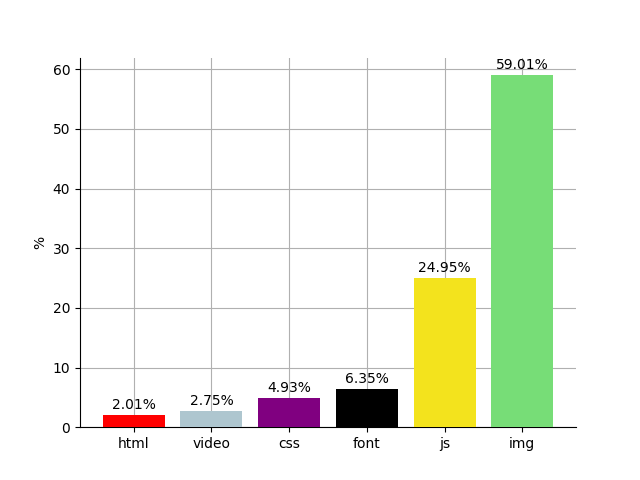
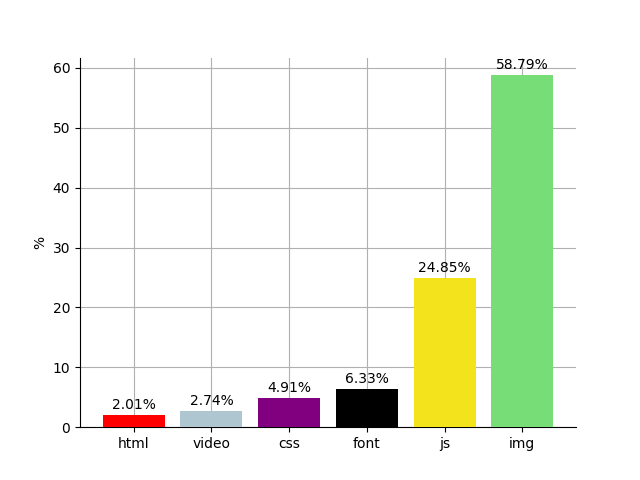
Finished metronome article.

diff --git a/templates/index.html b/templates/index.html
@@ -3,7 +3,7 @@
 {% block content %}
 <div data-nosnippet>
 <h2>About</h2>
-<p>This is where I (Kevin Galligan) keep my software and writing stuff. The writing is mostly computer-related. In recent times, I got a science degree and spent 3 years developing Java web services for some company. I've since returned to college in a misguided attempt to learn more maths.</p>
+<p>I'm Kevin Galligan, and this is where I keep my software and writing stuff.</p>
 
 <h4>Infrequently Asked Questions</h4>
 <p><b>Q:</b> How can I contact you?</p>

diff --git a/experiments/metronome/bar.py b/experiments/metronome/bar.py
@@ -3,13 +3,14 @@ import matplotlib.pyplot as plt
 BYTES_INTERQUARTILE = [117444183625, 1492513128682, 283180779936, 2814808632228, 363177891001, 70743962271]
 BYTES_10_TO_90 = [188774196140, 2337263808937, 462249675219, 5528893867126, 595097490698, 257342218994]
 
+TOTAL = 9405167424348
+
 def main():
     # plot_bar(BYTES_INTERQUARTILE)
     plot_bar(BYTES_10_TO_90)
 
 def plot_bar(bs):
-    totalsum = sum(bs)
-    props = [round(100*s/totalsum, 2) for s in bs]
+    props = [round(100*s/TOTAL, 2) for s in bs]
     colours = ["red", "#f3e31d", "purple", "#77dd77", "black", "#aec6cf"]
     names = ["html", "js", "css", "img", "font", "video"]
     attrs = list(zip(props, names, colours))

diff --git a/pages/blog/metronome.md b/pages/blog/metronome.md
@@ -1,13 +1,12 @@
 title: "Obese websites and planet-sized metronomes"
-date: 2020-06-05
-description: Publishing an Earth-sized metronome app on the fat web.
-draft: yes
+date: 2020-06-07
+description: A reflection on website obesity and my attempt to make a 981-byte metronome app.
 
-As you may have heard, we're in the midst of a crisis.
+As you may have heard, we're in the middle of a crisis.
 
 No, not that one. I'm talking about the [website obesity crisis](https://idlewords.com/talks/website_obesity.htm).
 
-The homepage of the [first ever website](http://info.cern.ch/hypertext/WWW/TheProject.html), published by Tim Berners-Lee in 1991, was 2.2KB in size. It was a sparse list of links, accessed through black-screened terminals with green text. Pure, aerodynamic HTML.
+The homepage of the [first ever website](http://info.cern.ch/hypertext/WWW/TheProject.html), published by Tim Berners-Lee in 1991, was 2.2KB in size. It was a sparse list of links. Pure, aerodynamic HTML. The internet users of the time would have viewed it through black-screened terminals with green text.
 
 <figure>
 <img src="{{ url_for('static', filename='img/metronome/firstpage.png') }}"
@@ -19,19 +18,24 @@ The homepage of the [first ever website](http://info.cern.ch/hypertext/WWW/ThePr
 
 Our expectations of the World Wide Web have grown since then, and so have websites. The median webpage size in 2020 is 2MB, and it has been increasing at a rate of about 165KB per year for the past 10 years<sup>[1](https://httparchive.org/reports/state-of-the-web)</sup>. It is now 800 times larger than Tim's original homepage.
 
-Images and scripts are responsible for driving this newfound corpulence. Images account for almost 60% of the collective mass of the web, once you exclude the smallest 10% and largest 10% of webpages. A further 25% is used for JavaScript, followed by 6% for custom fonts, 5% for CSS, and 3% for video, until finally, a mere 2% of the pie is left for HTML.
+In what follows, we'll explore the cause of this newfound corpulence, its repercussions, and my own struggles with website weight as I attempted to create a metronome web app in less than 1KB.
+
+### Weight of the web
+Why is the web so much heavier, these days? That's one of the questions that the [HTTP Archive](https://httparchive.org) attempts to answer. It's a community-run initiative to capture the state of the web over time. They catalogue millions of websites every month and publish the results as a database.
+
+After removing the smallest 10% and largest 10% of webpages from the HTTP Archive database for April 2020, we see that images account for almost 60% of the collective mass of the web. A further 25% is taken up by JavaScript, 6% by custom fonts, 5% by CSS, and 3% by video, until finally, a mere 2% of the pie is left for HTML.
 
 <figure>
 <img src="{{ url_for('static', filename='img/metronome/breakdown.png') }}"
      alt="Bar chart showing the web's mass by resource type. HTML 2.01%, videos 2.75%, CSS 4.93%, fonts 6.35%, JavaScript 24.95%, images 59.01%."
      class="centered">
 
-<figcaption>Percentage of the web's total mass taken up by common data types, after the smallest 10% and largest 10% of webpages have been excluded. These figures were extracted from the <a href="https://httparchive.org">HTTP Archive</a>. Methodology described in Appendix A.</figcaption>
+<figcaption>Percentage of the web's total mass taken up by common data types. More details on this chart are available in Appendix A.</figcaption>
 </figure>
 
-Most websites don't have this exact breakdown of weight, but it's roughly what you can expect to download when you visit a large number of websites on the modern web.
+Most websites don't have this exact breakdown of weight, but it's roughly what you can expect to download when you spend a lot of time on the web, depending on which sites you visit.
 
-The "average" 2MB webpage, then -- which, in fact, [doesn't exist](https://www.igvita.com/2016/01/12/the-average-page-is-a-myth/), but is nonetheless a useful concept -- comes with 1.2MB of image data. That's rather a lot of eyeball stimulation. The below portrait of William Howard Taft, the most voluminous ever president of the United States and basis of the [Taft Test](https://tafttest.com/), uses up just 1.5% of that 1.2MB budget. We can only assume either that modern websites include a *lot* of Taft-sized images, or that their images are absurdly big.
+The "average" 2MB webpage, then -- which, in fact, [doesn't exist](https://www.igvita.com/2016/01/12/the-average-page-is-a-myth/), but is useful to think about -- comes with 1.2MB of image data (60% of 2MB). That's rather a lot of eyeball stimulation. The below portrait of William Howard Taft, the most voluminous ever president of the United States and the basis of the [Taft Test](https://tafttest.com/), uses up just 2% of a 1.2MB budget. We can only assume either that modern websites include a *lot* of Taft-sized images, or that their images are absurdly heavy.
 
 <figure>
 <img src="{{ url_for('static', filename='img/metronome/taft.jpg') }}"
@@ -41,27 +45,27 @@ The "average" 2MB webpage, then -- which, in fact, [doesn't exist](https://www.i
 <figcaption>President Taft, 1857-1930.</figcaption>
 </figure>
 
-And let's be honest with ourselves: most images on the internet have less utility and aesthetic value than Taft.
+And let's be honest with ourselves: most images on the internet have less utility and aesthetic value than Taft. If you've ever read a Medium article about a technical subject, headed by a high-resolution photograph of a windmill, then you know what I'm talking about.
 
-More offensive still, the "average" webpage is now bundled with 500KB of JavaScript. If you wrote 200 lines of code per day at 50 characters per line, it would take 50 days to write that much JavaScript. This is astonishing, when you consider that the average website is less interactive than a tree stump. You could fit 15 copies of the original Super Mario Bros into 500KB. Yet, rather than a delightful platforming adventure worth hours of fun, we are instead subjected to ads, tracking scripts and [mountains of garbage](http://lea.verou.me/2020/05/todays-javascript-from-an-outsiders-perspective/) pulled in by the JavaScript ecosystem.
+More offensive still, the "average" webpage is now bundled with 500KB of JavaScript. If you wrote 200 lines of code per day at 80 characters per line, it would take a whole month to write a 500KB program. This is surprising to me, considering that the average website is less interactive than a tree stump. You could fit 15 copies of the original Super Mario Bros into 500KB. Yet, rather than a delightful platforming adventure worth hours of fun, we are instead subjected to ads, tracking scripts, and [mountains of garbage](http://lea.verou.me/2020/05/todays-javascript-from-an-outsiders-perspective/) pulled in from the JavaScript ecosystem.
 
-To summarise our flying tour of the modern web: it's fat. Unhealthily so.
+To summarise our survey of the modern web: it's fat. Unhealthily so.
 
 ### The cost of the fat web
-While some of us live in parts of the world with affordable, fast internet, others are not so fortunate. As of May 2020, a 2MB webpage is worth approximately 6 minutes of labour in Mauritania ([whatdoesmysitecost.com](https://whatdoesmysitecost.com/#gniCost) estimates that the download would cost 1.29% of Mauritania's daily gross national income per capita, and 1.29% of an 8-hour workday is ~6 minutes). Imagine having to work a full hour in order to earn the privilege of reading 10 webpages!
+While some of us live in parts of the world with affordable, fast internet, others are not so fortunate. As of May 2020, the download of a 2MB webpage in Mauritania is worth approximately 6 minutes of labour. More specifically, [whatdoesmysitecost.com](https://whatdoesmysitecost.com/#gniCost) estimates that the download would cost 1.29% of Mauritania's daily gross national income per capita, and 1.29% of an 8-hour workday is ~6 minutes.
 
-A [2014 Time article](https://time.com/3589909/internet-next-billion-mobile/) predicted that the next billion internet adoptees would be smartphone users. If we want the web to remain accessible for these newcomers, who presumably have crap hardware and crap networks, then the slimmer it is, the better.
+Obviously, there are more pressing issues in Mauritania than fat websites, but it pays to consider that by playing fast and loose with the weight of your website, you may be making it inaccessible to large numbers of people. [This post](https://blog.chriszacharias.com/page-weight-matters) by an ex-YouTube engineer explains how a lightweight version of YouTube's video player made the site accessible to users in remote regions of Siberia.
 
-The overweight web also has an environmental impact. The internet as a whole consumes more electricity than the entire United Kingdom<sup>[2](https://www.websitecarbon.com/)</sup>. So as well as having shorter showers, consider shedding some of the dead weight from your website.
+The overweight web also has an environmental impact. The internet as a whole consumes more electricity than the entire United Kingdom<sup>[2](https://www.websitecarbon.com/)</sup>. So, if you're the sort of person who gets excited about recycling, then you should also consider shedding some of that dead weight from your website.
 
 ### Making an Earth-sized web app
-Recently, with this glum state of affairs at the back of my mind, I found myself in need of a metronome web app. A metronome, if you didn't know, is a tool that ticks at regular intervals. It's a music thing.
+Recently, with this glum state of affairs at the back of my mind, I found myself in need of a metronome web app. A metronome, if you didn't know, is a tool that ticks at regular intervals.
 
-I didn't like any of the apps I found on the web. They were extremely overweight (as large as 11.35MB), mobile-unfriendly (I can't express the horror of trying to set precise numeric values with a slider), and full of trackers (hi Google!).
+I didn't like any of the apps I found. They were grotesquely overweight (as large as 11.35MB), mobile-unfriendly (I can't express the horror of trying to set precise numeric values with a slider), and full of trackers (hi Google!).
 
-And so, I set myself a challenge: to make my own, mobile-friendly, slider-free metronome app, with the constraint that it be less than 1KB in size. That's half the size of Tim Berners-Lee's original webpage. A tight margin, for sure, but since people make [1KB JavaScript games](https://js1k.com/) for fun, I was confident that it would be possible.
+As a result, I set myself a challenge: to make my own, mobile-friendly, slider-free metronome app, with the constraint that it be less than 1KB in size. That's half the size of Tim Berners-Lee's original webpage. A tight margin, for sure, but this would be small fry compared to the [1KB JavaScript games](https://js1k.com/) that some people make for fun.
 
-The finished app can be found <a href="{{ url_for("specific_app", name="metronome") }}">here</a>. The first version was 2616 bytes, but by applying various dirty tricks (detailed in Appendix B, along with some technical details of the app), I managed to shrink it down to 981 bytes, or ~3.5 tweets.
+The finished product is <a href="{{ url_for("specific_app", name="metronome") }}">here</a>. The first version was over 2.5KB, but by applying various dirty tricks (detailed in Appendix B, along with technical details of the app), I managed to shrink it down to 981 bytes, or ~3.5 tweets.
 
     :::html
     <!DOCTYPE html><title>Metronome</title><meta name=viewport content=width=device-width>
@@ -77,16 +81,16 @@ The finished app can be found <a href="{{ url_for("specific_app", name="metronom
     n=>(e=D.createElement("button"),e.addEventListener("click",()=>a(n)),H(e,(n<0?"":"+")+n),
     D.body.appendChild(e))));</script><p id=b>100</p><button id=c onclick=c();>play</button>
 
-The purpose of this exercise? Mostly as a point of comparison for other metronome apps on the market, which I believe are symptomatic of the horrid state of the web, and which we will examine in the next section.
+The purpose of this exercise? Mostly as a point of comparison for other online metronome apps, which I believe are symptomatic of the horrid state of the web, and which we will examine in the next section.
 
 ### Comparing size
-Here's a size comparison of my metronome versus the top 7 metronomes (labelled A-G) that come up when you search "metronome online" with Generic Search Engine. The y-axis is on a logarithmic scale, which means that it counts from 1 to 10 to 100, instead of 1 to 2 to 3. Otherwise, some of the bars would be microscopically tiny. Metronome A is 11.35MB (around 10<sup>8</sup> bytes), metronome G is 217.56KB (10<sup>6</sup>), and my metronome is 981 bytes (10<sup>3</sup>).
+Here's a size comparison of my metronome versus the top 7 metronomes, labelled A-G, that come up when you search "metronome online" with Generic Search Engine. The y-axis is on a logarithmic scale, which means that it counts from 1 to 10 to 100, instead of 1 to 2 to 3. Otherwise, some of the bars would be microscopically tiny. Metronome A is 11.35MB (around 10<sup>8</sup> bytes), metronome G is 217.56KB (10<sup>6</sup>), and my metronome is 981 bytes (10<sup>3</sup>).
 
 <img src="{{ url_for('static', filename='img/metronome/size.png') }}"
      alt="Bar chart comparing sizes of various metronome apps to mine."
      class="centered">
 
-Yes, folks, you heard it here first: mine is smaller. To get a sense for how much smaller, consider this depiction of Earth and Jupiter ([source](https://theplanets.org/jupiter/)):
+Yes, folks, you heard it here first: mine is smaller. To get a sense of how much smaller, consider this depiction of Earth and Jupiter ([source](https://theplanets.org/jupiter/)).
 
 <img src="{{ url_for('static', filename='img/metronome/planets.jpg') }}"
      alt="todo"
@@ -96,15 +100,15 @@ Quoting universetoday.com<sup>[3](https://www.universetoday.com/37124/volume-of-
 
 > The largest planet in our Solar System, Jupiter’s size is astounding. Jupiter has a volume of 1.43 x 1015 cubic kilometers. To show what this number means, you could fit 1321 Earths inside of Jupiter. It is hard to imagine how large that actually is.
 
-If my metronome app were Earth, then Metronome A would have the volume of **eight Jupiters**. It is hard to imagine how large that actually is. Or what it could possibly be doing with all of that volume, since none of the larger metronomes offer any functionality beyond basic ticking. Although, admittedly, they're much prettier.
+If my metronome app were Earth, then Metronome A would have the volume of **eight Jupiters**. As the article says, it is hard to imagine how large that actually is.
+
+Keep in mind that none of the larger metronomes offer any features besides ticking. Admittedly, they're much prettier, but my point is that the weight of these web apps is massively disproportionate to the functionality that they offer. And the same can be said for much of the modern web.
 
 ### Final thoughts
-I'm not suggesting that we all become masochist monks, purging the tiniest strips of fat from our websites with puritan fury. While fun, compressing a website takes a lot of effort, and the end result tends to look like shit. Let's just try to make our websites Earth-sized, please, or even Neptune-sized. This can be achieved by not inflicting humongous images and obscene amounts of JavaScript on the denizens of the web. Not everyone can afford to download Jupiter.
+I'm not suggesting that we become leather-clad monks, purging strips of fat from our websites with puritan fury. While fun, compressing a website takes a lot of effort, and the end result tends to look like shit (<a href="{{ url_for("specific_app", name="metronome") }}">as you can see</a>). Let's just try to keep our websites Earth-sized, please. Or even Neptune-sized. Not everyone can afford to download Jupiter.
 
-### Appendix A: HTTP Archive query
-The [HTTP Archive](https://httparchive.org) is a community-run effort to capture data and statistics about the web. Every month, they trawl millions of webpages and publish summary statistics on their website. The data is publicly available.
-
-After loading the HTTP Archive database into Google BigQuery (instructions [here](https://github.com/HTTPArchive/httparchive.org/blob/master/docs/gettingstarted_bigquery.md), it's free and takes 5 minutes), I ran this query to fetch the data I needed for my bar chart. 
+### Appendix A: Page weight breakdown
+After loading the HTTP Archive database into Google BigQuery (it's free and takes 5 minutes, instructions [here](https://github.com/HTTPArchive/httparchive.org/blob/master/docs/gettingstarted_bigquery.md)), I ran this query to fetch the data I needed for my bar chart. 
 
     :::sql
     SELECT
@@ -114,15 +118,16 @@ After loading the HTTP Archive database into Google BigQuery (instructions [here
       SUM(bytesImg) as img,
       SUM(bytesFont) as font,
       SUM(bytesVideo) as video,
+      SUM(bytesTotal) as total,
       COUNT(*) as count
     FROM
       `httparchive.summary_pages.2020_04_01_desktop`
     WHERE
       bytesTotal >= 456601 AND bytesTotal <= 7363789
 
-It loads data from April 1st, 2020. The bounds on bytesTotal are the p10 and p90 values of page size, plucked from [here](https://httparchive.org/reports/page-weight).
+The bounds on bytesTotal are the p10 and p90 values of page size, plucked from [here](https://httparchive.org/reports/page-weight). They're intended to remove outliers. The bar heights are then `bytes/total*100`.
 
-And here are the results:
+Results:
 
     html 188774196140
     js 2337263808937
@@ -130,9 +135,10 @@ And here are the results:
     img 5528893867126
     font 595097490698
     video 257342218994
+    total 9405167424348
     count 3728058
 
-Another interesting query I ran: how many webpages have at least one image?
+You might complain that this distribution is skewed, even after we've removed outliers. *Some* websites may have super heavy images, but *most* websites don't. In response to that quibble, here's another query we can run. It shows the number of webpages that load images.
 
     :::sql
     SELECT
@@ -142,16 +148,20 @@ Another interesting query I ran: how many webpages have at least one image?
     WHERE
       bytesImg > 0
 
-Result: 4,658,956. There are about 4,660,072 webpages in the database, making the answer more than 99.9%.
+The answer turns out to be 4,658,956. There are ~4,660,072 webpages in the database, meaning that more than 99.9% of webpages have image data. And, according to the reports of the HTTP Archive, the median image weight of webpages is 950KB, or thereabouts. This means that 50% of webpages have 950KB or more of image data, and our figure of 1.2MB isn't far off the mark, skewed though it may be.
 
-### Appendix B: website golf
+### Appendix B: clocks and golf
 Here I'll describe how the <a href="{{ url_for("specific_app", name="metronome") }}">metronome web app</a> works, and also the series of gruesome hacks I employed to shrink it below 1KB.
 
-When the user starts the metronome, it kicks off a scheduling function in the main thread that runs every 25 milliseconds. The scheduling function calls JavaScript's WebAudio interface to scheule any beeps that are due to play in the next 100 milliseconds. WebAudio then plays the beeps in a separate thread. If we played the audio directly in the main thread, which is what I tried before [finding enlightenment](https://www.html5rocks.com/en/tutorials/audio/scheduling/), then there would be unacceptable delays in sound whenever we lost control of the main thread to the browser's UI and book-keeping functions.
+Humans are [highly sensitive](https://meowni.ca/posts/metronomes/) to audio delay, so it's important for a metronome app to tick as reliably as a Swiss clock. If you play audio directly in the main thread, which is what I tried before [finding enlightenment](https://www.html5rocks.com/en/tutorials/audio/scheduling/), then you're going to suffer from unacceptable delays in sound whenever you lose control to the browser's UI and book-keeping functions.
 
-And here are some of the things I tried to make the app smaller:
+Instead, when you start the metronome, it kicks off a scheduling function in the main thread that runs every 25 milliseconds. The scheduling function calls JavaScript's WebAudio interface to schedule any beeps that are due to play in the next 100 milliseconds. WebAudio plays the beeps in a separate thread. Even if the scheduling function is delayed by 50ms or so, there's enough of a buffer that the next beep can still be scheduled on time.
 
-* Removing unnecessary HTML. Some tips described [here](https://blog.notryan.com/013.txt). My favourite bits: 1) attributes don't need quotes if the value doesn't contain spaces, making `<p id=x>` the same as `<p id="x">`; and 2) if you omit &lt;html&gt;, &lt;head&gt; and &lt;body&gt; tags, they'll be generated by the browser.
+Apparently, this technique can also be applied to animation, making it useful for game development.
+
+As for making the app smaller, here are some of the things I tried:
+
+* [Removing unnecessary HTML](https://blog.notryan.com/013.txt). My favourite bits: 1) attributes don't need quotes if the value doesn't contain spaces, making `<p id=x>` the same as `<p id="x">`; and 2) if you omit &lt;html&gt;, &lt;head&gt; and &lt;body&gt; tags, they'll be generated for you by the browser.
 * Various [JavaScript golf techniques](https://dev.to/emnudge/js-code-golfing-how-to-ruin-everyone-s-day-40h3), such as replacing all regular functions with arrow functions, replacing local variables with global ones, and reducing names to 1 letter.
 * Running the HTML, CSS and JavaScript through minifiers to remove whitespace. The [JavaScript one](https://javascript-minifier.com/) in particular introduced some neat abbreviations, like replacing `false` with `!1`.
 * Programmatically generating some of the buttons on page load, saving about 50 bytes.
